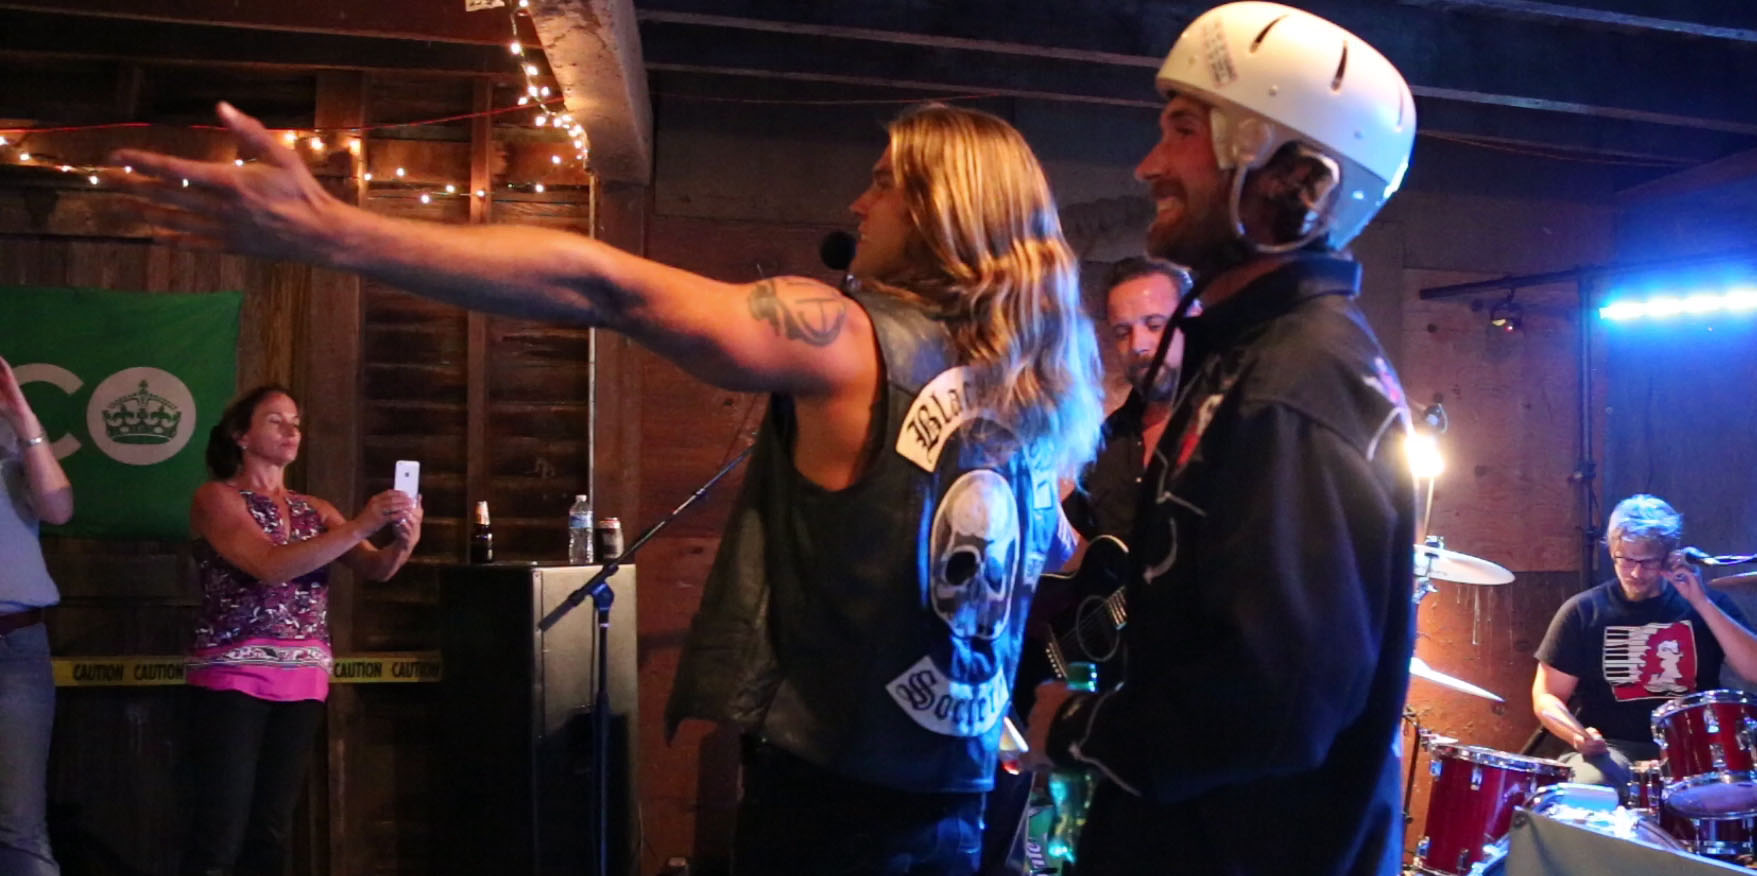
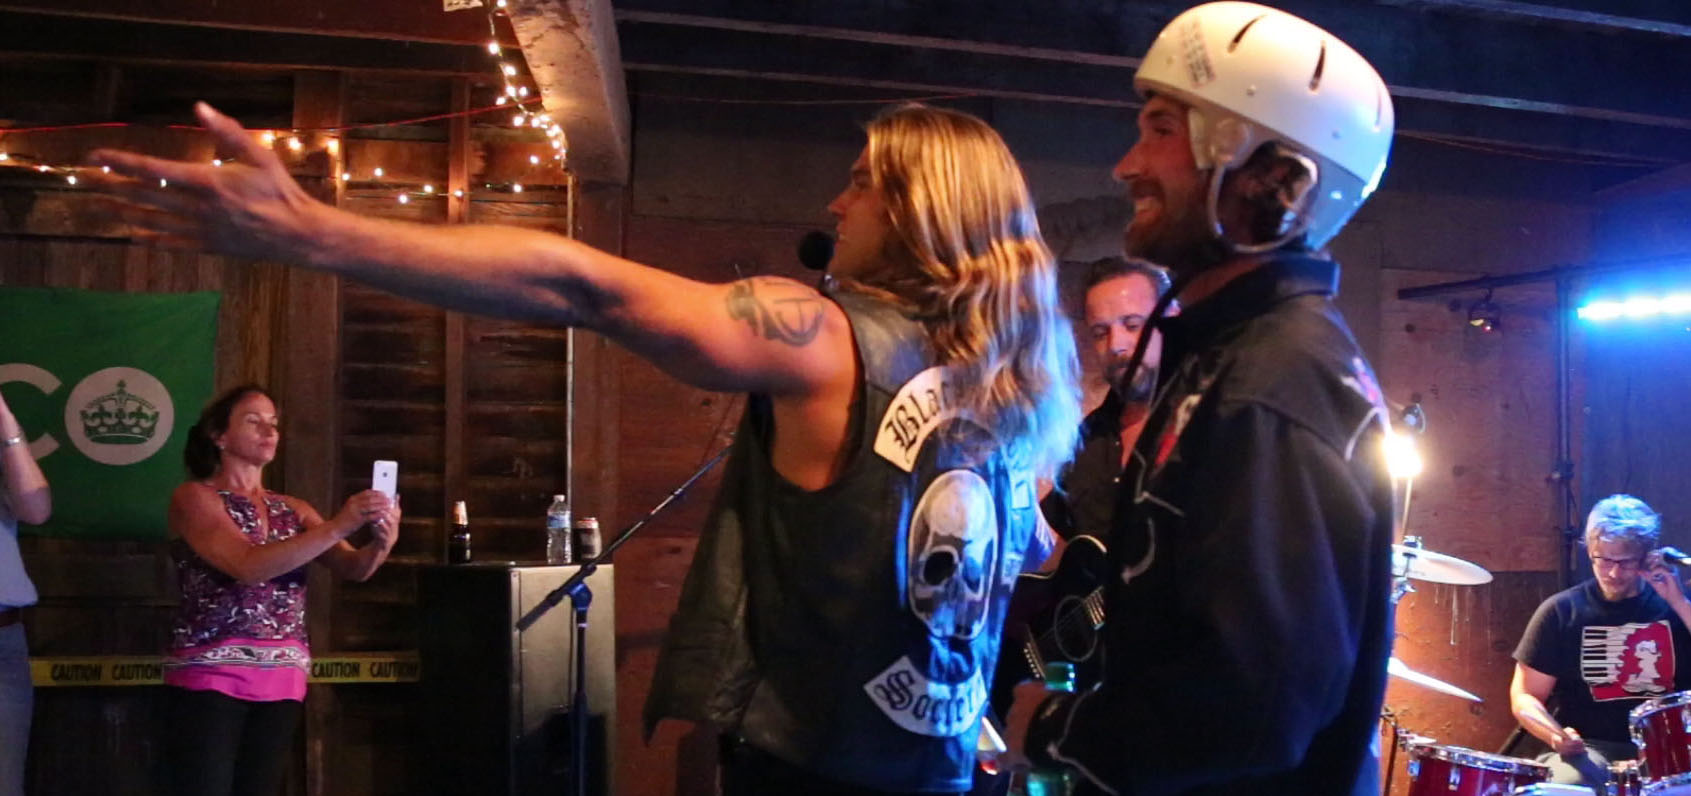
Changed the images on the thank you page.

diff --git a/thankyou.html b/thankyou.html
@@ -73,7 +73,7 @@
                     </p>
                 </div>
                 <div class="col-lg-5 col-lg-offset-2 col-sm-6">
-                    <img class="img-responsive" src="img/side-content-1.jpg" alt="">
+                    <img class="img-responsive" src="img/thankyou-side-content-1.jpg" alt="" style="margin-top: 30px;">
                 </div>
             </div>
 
